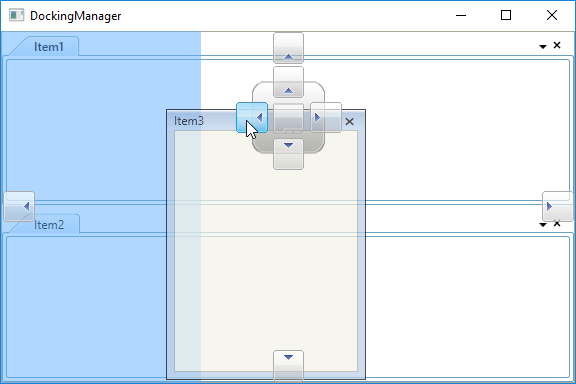
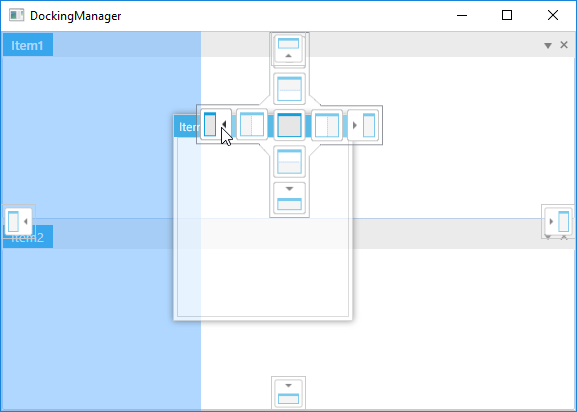
WPF-43376 Modified images and VS205 TabGroup creation support content in UG Documentation and committed.

Changed region(s): [[0.0, 0.0, 1.0, 1.0]]

diff --git a/wpf/DockingManager/MDI-TDI-functionalities.md b/wpf/DockingManager/MDI-TDI-functionalities.md
@@ -525,15 +525,15 @@ DockingManager.SetShowCloseAllButThisMenuItem(Item2, false);
 ![](MDI_TDIfunctionalities_images/MDI_TDIfunctionalities_img14.jpeg)
 
 
-## Grouping Document Tab Group
+# Creating Document Tab Group
 
 TDI document can be grouped like VisualStudio. It can be grouped by drag and Drop and also using the options in context menu items.
 
-### Creating TabGroup using ContextMenu option
+## TabGroup creation using ContextMenu option
 
 In DockingManager, new tab group can be created at horizontal or vertical side in the document area using `ContextMenu` option.
 
-#### Creating Vertical Tab Group 
+### Creating Vertical Tab Group 
 
 To create a vertical tab group in the Tabbed document, select the "New Vertical Tab Group" context menu item and also it can be created programmatically by calling the method `CreateVerticalTabGroup(UIElement)` of the DocumentContainer.
 
@@ -553,7 +553,7 @@ TryCast(DockingManager1.DocContainer, DocumentContainer).CreateVerticalTabGroup(
 
 {% endtabs %}
 
-#### Creating Horizontal Tab Group 
+### Creating Horizontal Tab Group 
 
 To create a horizontal tab group in the Tabbed document, select the "New Horizontal Tab Group context menu item and also it can be created programmatically by calling the method `CreateHorizontalTabGroup(UIElement)` of the DocumentContainer.
 
@@ -573,7 +573,7 @@ TryCast(DockingManager1.DocContainer, DocumentContainer).CreateHorizontalTabGrou
 
 {% endtabs %}
 
-#### Adding Tab in a Group 
+### Adding Tab in a Group 
 
 In TDI document, new tab group can be created by dragging the TabItem into the Document area and click the "New Tab Group" menu item from context menu item.
 
@@ -582,11 +582,11 @@ In TDI document, new tab group can be created by dragging the TabItem into the D
 
 ![](MDI_TDIfunctionalities_images/MDI_TDIfunctionalities_img16.jpeg)
 
-### Creating TabGroup through mouse interaction without using ContextMenu option
+## TabGroup creation through mouse interaction 
 
-In DockingManager, new tab group can be created at top, left, right and bottom side in the document area through mouse interaction. To enable this functionalities in DockingManager, the `TabSwitchSection` property should be set as `ActiveFiles` for document items and `ActiveToolWindows` for dock items.
+DockAbility of document items can be restricted by setting TabSwitchSection property as `ActiveFiles`.  Also, user can create TabGroup at desired position in the document area with the help of drag provider like VisualStudio.
 
-#### ActiveFiles mode
+### ActiveFiles mode
 
 When setting the TabSwitchSection as `ActiveFiles` for document panel, dock ability has been restricted and it always placed as a document window whenever it drag and drop.
 
@@ -610,9 +610,9 @@ When setting the TabSwitchSection as `ActiveFiles` for document panel, dock abil
 
 ![](MDI_TDIfunctionalities_images/TabGroupCreation_Top.png)
 
-#### ActiveToolWindows mode
+### ActiveToolWindows mode
 
-When setting the TabSwitchSection as ActiveToolWindows for Dock Panel. It can be docked in the Top, Bottom, Right and Left as a Dock or Document Window when drag and drop it on the TDI Manager based on the position of the window placed in the DragProvider. 
+Dock window can be moved to both dock and document state in the document area by setting TabSwitchSection property as `ActiveToolWindows`. It can be achieved with the help of drag provider based on its cursor position at respective side. If cursor was positioned at outer half, it will be moved to dock state and to document state when it placed at inner half. User can easily differentiate it with the help of DockPreview.
 
 {% tabs %}
 
@@ -642,7 +642,7 @@ Document window creation at left side:
 
 N> These functionalities will effect only when `IsVs2010DraggingEnabled` property of DockingManager is true.
 
-### Disable TabGroups
+## Disable TabGroups
 
 Vertical and Horizontal Tab Grouping feature can be enabled or disabled using the property `TabGroupEnabled` in DockingManager. 
  
